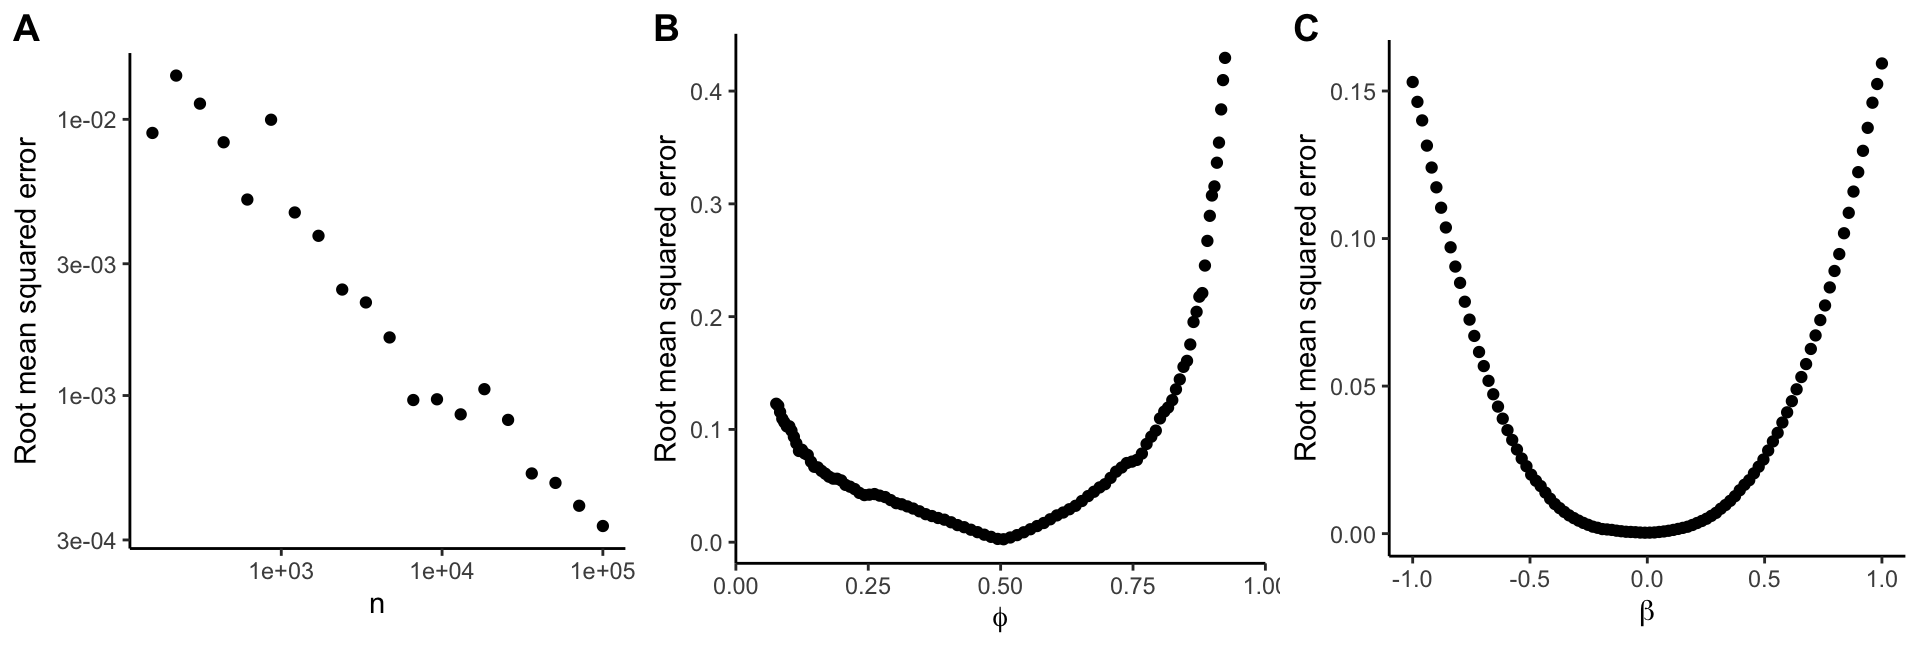
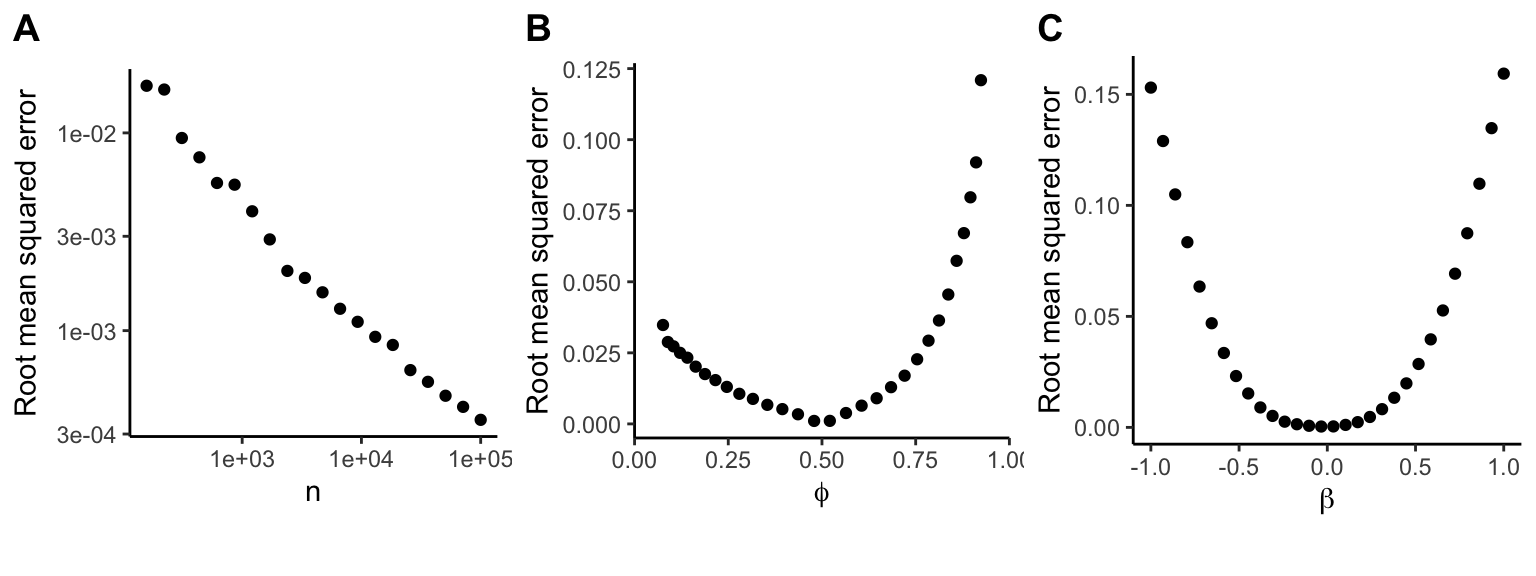
update docs

diff --git a/docs/articles/beta_approx.html b/docs/articles/beta_approx.html
@@ -66,7 +66,7 @@ analysis</h3>
 </h4>
             
             <h4 data-toc-skip class="date">Run on 2025-07-15
-11:06:24.756854</h4>
+13:26:10.517596</h4>
       
       <small class="dont-index">Source: <a href="https://github.com/GabrielHoffman/imputez/blob/HEAD/vignettes/beta_approx.Rmd" class="external-link"><code>vignettes/beta_approx.Rmd</code></a></small>
       <div class="d-none name"><code>beta_approx.Rmd</code></div>
@@ -76,24 +76,30 @@ analysis</h3>
     
 <p>Given a z-statistic, we want to obtain the coefficient value from a
 linear regression. Adapting the approach from <a href="https://doi.org/10.1038/ng.3538" class="external-link">Zhu, et al (2016, Methods eqn
-6)</a>, we estimate the coefficient as <span class="math display">\beta
-= z * sd_y / (sd_x*sqrt(n + z^2)),</span> where <span class="math inline">sd_x</span> is the standard deviation of the
-covariate and <span class="math inline">sd_y</span> is the standard
-error of the response. For a model with no covariates, this
-transformation gives the exact coefficient estimate. With covariates, it
-is approximate.</p>
-<p>Second, the coeffient estimate from linear regression can be
-converted to the logistic scale using the approach of <a href="https://doi.org/10.1214/12-AOAS586" class="external-link">Pirinen, et al. (2013)</a>
-according to <span class="math display">\beta / (\phi(1-\phi)),</span>
-where <span class="math inline">\phi</span> is the case ratio in the
-logistic regression. This approximates the coefficient as if the model
-had been fit with logistic regression. This is implemented in
+6)</a>, we estimate the coefficient as <span class="math display">\beta_{linear} = z * sd_y / (sd_x*sqrt(n +
+z^2)),</span> where <span class="math inline">sd_x</span> is the
+standard deviation of the covariate and <span class="math inline">sd_y</span> is the standard error of the response.
+For a model with no covariates, this transformation gives the exact
+coefficient estimate. With covariates, it is approximate.</p>
+<p>The coeffient estimate from linear regression can be converted to the
+logistic scale using the approach of <a href="https://doi.org/10.1214/12-AOAS586" class="external-link">Pirinen, et al. (2013)</a>
+according to <span class="math display">\beta_{logistic} =
+\beta_{linear} / (\phi(1-\phi)),</span> where <span class="math inline">\phi</span> is the case ratio in the logistic
+regression. This approximates the coefficient as if the model had been
+fit with logistic regression. This is implemented in
 <code><a href="../reference/coef_from_z.html">coef_from_z()</a></code>.</p>
 <p>We see here that using the z-statistic to approximate the coefficient
 from logistic regression model is most accurate for large sample size,
 balanced class ratio (i.e. <span class="math inline">\phi</span> near
 0.5), and small <span class="math inline">\beta</span>.</p>
-<p><img src="beta_approx_files/figure-html/plot-1.png" width="960"></p>
+<div class="figure">
+<img src="beta_approx_files/figure-html/plot-1.png" alt="**Accuracy of approxmating $\beta$ from z-statistics.** **A**) Sample size is varied with $\beta=0$, $\phi=0.5$ **B**) Case ratio is varied with $\beta=0$, $n=10,000$ **C**) $\beta$ is varied with $\phi=0.5$, $n=10,000$" width="768"><p class="caption">
+<strong>Accuracy of approxmating <span class="math inline">\beta</span>
+from z-statistics.</strong> <strong>A</strong>) Sample size is varied
+with <span class="math inline">\beta=0</span>, <span class="math inline">\phi=0.5</span> <strong>B</strong>) Case ratio is
+varied with <span class="math inline">\beta=0</span>, <span class="math inline">n=10,000</span> <strong>C</strong>) <span class="math inline">\beta</span> is varied with <span class="math inline">\phi=0.5</span>, <span class="math inline">n=10,000</span>
+</p>
+</div>
 <div class="section level2">
 <h2 id="session-info">Session Info<a class="anchor" aria-label="anchor" href="#session-info"></a>
 </h2>

diff --git a/docs/reference/coef_from_z.html b/docs/reference/coef_from_z.html
@@ -78,13 +78,13 @@
     </div>
     <div class="section level2">
     <h2 id="details">Details<a class="anchor" aria-label="anchor" href="#details"></a></h2>
-    <p>Given a z-statistic, we want to obtain the coefficient value from a linear regression.  Adapting the approach from Zhu, et al (2016, Methods eqn 6), we estimate the coefficient as $$\beta = z * sd_y / (sd_x*sqrt(n + z^2)),$$ where \(sd_x\) is the standard deviation of the covariate and \(sd_y\) is the standard error of the response.  For a model with no covariates, this transformation gives the exact coefficient estimate.  With covariates, it is approximate.</p>
-<p>Second, the coeffient estimate from linear regression can be converted to the logistic scale using the approach of Pirinen, et al. (2013) according to $$\beta / (\phi(1-\phi)),$$ where \(\phi\) is the case ratio in the logistic regression.  This approximates the coefficient as if the model had been fit with logistic regression.</p>
+    <p>Given a z-statistic, we want to obtain the coefficient value from a linear regression.  Adapting the approach from Zhu, et al (2016, Methods eqn 6), we estimate the coefficient as $$\beta_{linear} = z * sd_y / (sd_x*sqrt(n + z^2)),$$ where \(sd_x\) is the standard deviation of the covariate and \(sd_y\) is the standard error of the response.  For a model with no covariates, this transformation gives the exact coefficient estimate.  With covariates, it is approximate.</p>
+<p>The coeffient estimate from linear regression can be converted to the logistic scale using the approach of Pirinen, et al. (2013) according to $$\beta_{logistic} = \beta_{linear} / (\phi(1-\phi)),$$ where \(\phi\) is the case ratio in the logistic regression.  This approximates the coefficient as if the model had been fit with logistic regression.</p>
     </div>
     <div class="section level2">
     <h2 id="references">References<a class="anchor" aria-label="anchor" href="#references"></a></h2>
-    <p>Zhu, et al. (2016). Integration of summary data from GWAS and eQTL studies predicts complex trait gene targets. Nature Genetics. 48:481–487 <a href="https://doi.org/10.1038/ng.3538" class="external-link">https://doi.org/10.1038/ng.3538</a></p>
-<p>Pirinen, Donnelly and Spencer. (2013). Efficient computation with a linear mixed model on large-scale data sets with applications to genetic studies. Ann. Appl. Stat. 7(1): 369-390 <a href="https://doi.org/10.1214/12-AOAS586" class="external-link">https://doi.org/10.1214/12-AOAS586</a></p>
+    <p>Zhu, et al. (2016). Integration of summary data from GWAS and eQTL studies predicts complex trait gene targets. Nature Genetics. 48:481–487 <a href="https://doi.org/10.1038/ng.3538" class="external-link">doi:10.1038/ng.3538</a></p>
+<p>Pirinen, Donnelly and Spencer. (2013). Efficient computation with a linear mixed model on large-scale data sets with applications to genetic studies. Ann. Appl. Stat. 7(1): 369-390 <a href="https://doi.org/10.1214/12-AOAS586" class="external-link">doi:10.1214/12-AOAS586</a></p>
     </div>
 
     <div class="section level2">

diff --git a/docs/articles/imputez.html b/docs/articles/imputez.html
@@ -65,7 +65,7 @@
 </h4>
             
             <h4 data-toc-skip class="date">Run on 2025-07-15
-10:55:50.655219</h4>
+13:15:28.592228</h4>
       
       <small class="dont-index">Source: <a href="https://github.com/GabrielHoffman/imputez/blob/HEAD/vignettes/imputez.Rmd" class="external-link"><code>vignettes/imputez.Rmd</code></a></small>
       <div class="d-none name"><code>imputez.Rmd</code></div>
@@ -80,7 +80,7 @@ and use <code><a href="../reference/run_imputez.html">run_imputez()</a></code> t
 <h4 id="code">Code<a class="anchor" aria-label="anchor" href="#code"></a>
 </h4>
 <div class="sourceCode" id="cb1"><pre class="downlit sourceCode r">
-<code class="sourceCode R"><span><span class="kw"><a href="https://rdrr.io/r/base/library.html" class="external-link">library</a></span><span class="op">(</span><span class="va"><a href="https://GabrielHoffman.github.io/imputez" class="external-link">imputez</a></span><span class="op">)</span></span>
+<code class="sourceCode R"><span><span class="kw"><a href="https://rdrr.io/r/base/library.html" class="external-link">library</a></span><span class="op">(</span><span class="va"><a href="https://GabrielHoffman.github.io/imputez/" class="external-link">imputez</a></span><span class="op">)</span></span>
 <span><span class="kw"><a href="https://rdrr.io/r/base/library.html" class="external-link">library</a></span><span class="op">(</span><span class="va"><a href="https://github.com/GabrielHoffman/GenomicDataStream" class="external-link">GenomicDataStream</a></span><span class="op">)</span></span>
 <span><span class="kw"><a href="https://rdrr.io/r/base/library.html" class="external-link">library</a></span><span class="op">(</span><span class="va"><a href="http://mvtnorm.R-forge.R-project.org" class="external-link">mvtnorm</a></span><span class="op">)</span></span>
 <span><span class="kw"><a href="https://rdrr.io/r/base/library.html" class="external-link">library</a></span><span class="op">(</span><span class="va"><a href="https://dplyr.tidyverse.org" class="external-link">dplyr</a></span><span class="op">)</span></span>

diff --git a/docs/authors.html b/docs/authors.html
@@ -52,14 +52,14 @@
 
       <p>Hoffman G (2025).
 <em>imputez: Impute z-Statistics for Missing Variants using Observed z-Statistics and Correlation Matrix Between Variants</em>.
-R package version 1.2.3, <a href="https://GabrielHoffman.github.io/imputez" class="external-link">https://GabrielHoffman.github.io/imputez</a>.
+R package version 1.2.3, <a href="https://GabrielHoffman.github.io/imputez/" class="external-link">https://GabrielHoffman.github.io/imputez/</a>.
 </p>
       <pre>@Manual{,
   title = {imputez: Impute z-Statistics for Missing Variants using Observed z-Statistics and Correlation Matrix Between Variants},
   author = {Gabriel Hoffman},
   year = {2025},
   note = {R package version 1.2.3},
-  url = {https://GabrielHoffman.github.io/imputez},
+  url = {https://GabrielHoffman.github.io/imputez/},
 }</pre>
     </div>
 

diff --git a/docs/articles/ref_panel.html b/docs/articles/ref_panel.html
@@ -66,7 +66,7 @@ INDELS</h3>
 </h4>
             
             <h4 data-toc-skip class="date">Run on 2025-07-15
-10:55:51.548917</h4>
+13:15:29.48845</h4>
       
       <small class="dont-index">Source: <a href="https://github.com/GabrielHoffman/imputez/blob/HEAD/vignettes/ref_panel.Rmd" class="external-link"><code>vignettes/ref_panel.Rmd</code></a></small>
       <div class="d-none name"><code>ref_panel.Rmd</code></div>

diff --git a/docs/index.html b/docs/index.html
@@ -88,7 +88,7 @@
 <h2 data-toc-skip>Links</h2>
 <ul class="list-unstyled">
 <li><a href="https://github.com/GabrielHoffman/imputez/" class="external-link">Browse source code</a></li>
-<li><a href="https://github.com/GabrielHoffman/imputez/issues" class="external-link">Report a bug</a></li>
+<li><a href="https://github.com/GabrielHoffman/imputez/issues/" class="external-link">Report a bug</a></li>
 </ul>
 </div>
 
